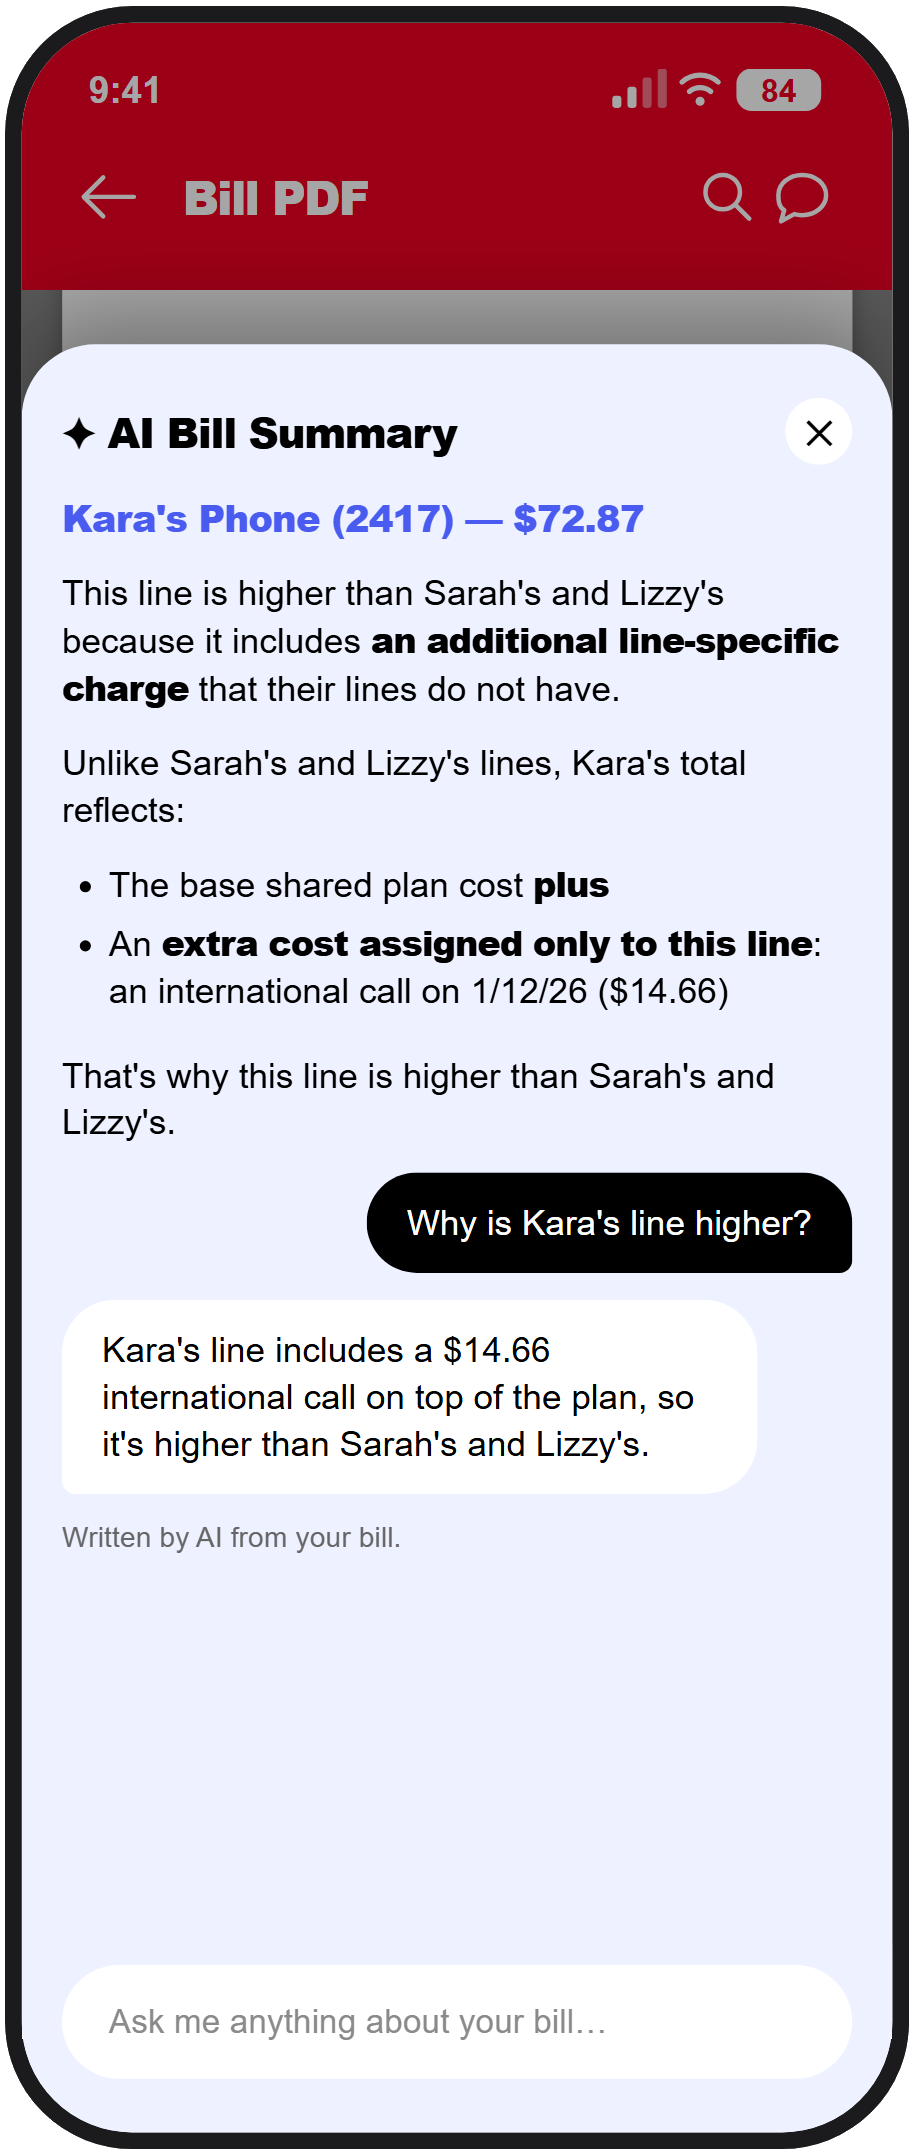
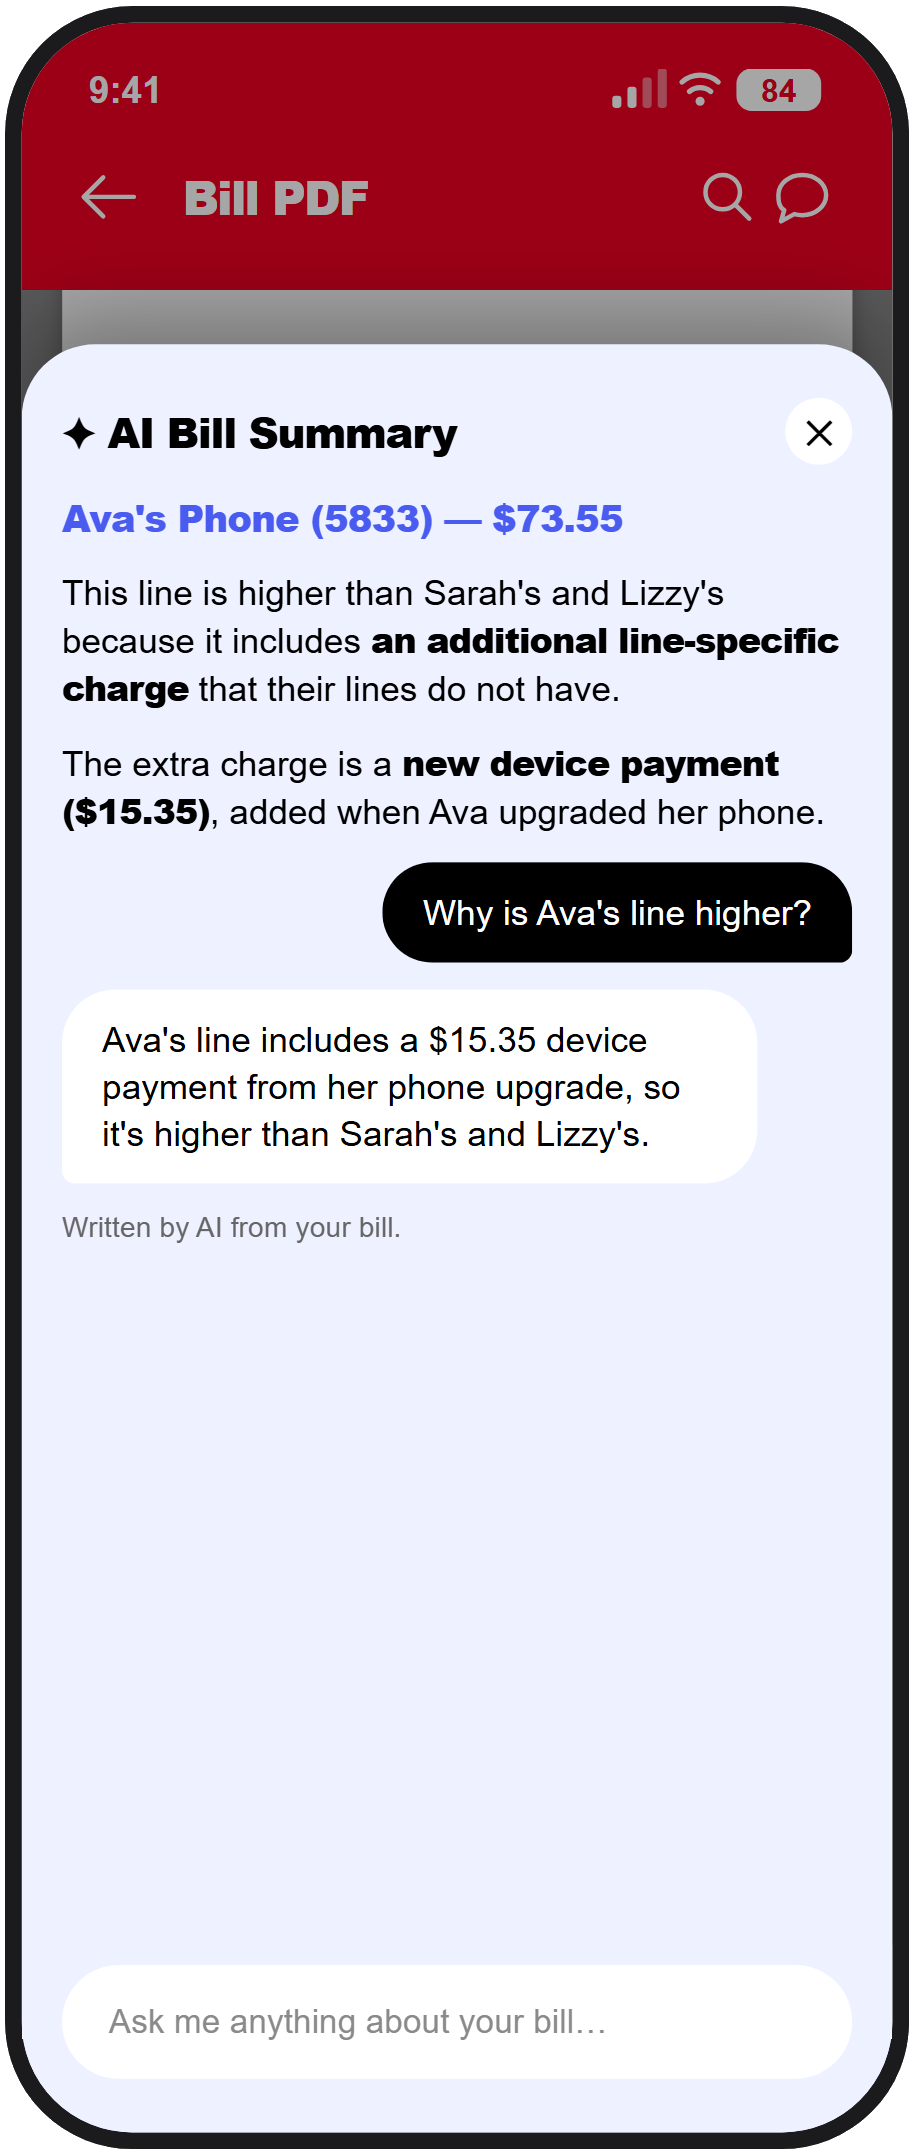
AI Bill Summary sheet now explains Ava's line (device payment); refresh thumbnail
Copilot-Session: d03eeb52-1bb5-4adc-a6b2-1b01bb792acd

diff --git a/verizon.html b/verizon.html
@@ -34,7 +34,7 @@
   <h2 class="reveal">Overview</h2>
   <div class="ov-split">
   <div><p class="reveal">Verizon customers struggle to find billing details, make sense of the numbers, and get past the jargon. A team of seven interdisciplinary designers (UX, UI and more) partnered with Verizon's Experience Design team to answer one question: <b>how can AI improve the way customers understand their bill?</b></p><p class="reveal">Over 16 weeks the team researched the problem across four carriers, designed an AI-powered bill experience, and tested it with 16 people in a Figma prototype. The work moved from open exploration to one focused bet: make the bill explain itself.</p></div>
-  <div class="ovs reveal" role="img" aria-label="Today the Verizon bill shows $262.82 with no explanation of the change. The goal is a bill that explains an increase of $30.01 in plain language."><div class="ovp"><div class="ovh"><div><small>Verizon today</small><h5>Your bill</h5></div></div><div class="ovl"><span>Total due<em>$262.82</em></span><span>Change from last month<em>Not explained</em></span><span class="no">Plain-language summary<em>Not available</em></span></div></div><div class="ovarr" aria-hidden="true"><i></i></div><div class="ovp on"><div class="ovh"><div><small>The goal</small><h5>A bill that explains itself</h5></div></div><div class="ovr"><span class="k">What changed</span><span class="v">+$30.01 from last month</span><span class="chip">Explained</span></div><div class="ovr"><span class="k">Why</span><span class="v">International call and a new device payment</span><span class="chip">Plain language</span></div><div class="ovr"><span class="k">Who</span><span class="v">Kara's line, +$14.66</span><span class="chip ok">Per member</span></div><div class="ovf">One tap from the home screen to the answer.</div></div></div>
+  <div class="ovs reveal" role="img" aria-label="Today the Verizon bill shows $262.82 with no explanation of the change. The goal is a bill that explains an increase of $30.01 in plain language."><div class="ovp"><div class="ovh"><div><small>Verizon today</small><h5>Your bill</h5></div></div><div class="ovl"><span>Total due<em>$262.82</em></span><span>Change from last month<em>Not explained</em></span><span class="no">Plain-language summary<em>Not available</em></span></div></div><div class="ovarr" aria-hidden="true"><i></i></div><div class="ovp on"><div class="ovh"><div><small>The goal</small><h5>A bill that explains itself</h5></div></div><div class="ovr"><span class="k">What changed</span><span class="v">+$30.01 from last month</span><span class="chip">Explained</span></div><div class="ovr"><span class="k">Why</span><span class="v">International call and a new device payment</span><span class="chip">Plain language</span></div><div class="ovr"><span class="k">Who</span><span class="v">Ava's line, +$15.35</span><span class="chip ok">Per member</span></div><div class="ovf">One tap from the home screen to the answer.</div></div></div>
   </div>
 
   <h2 class="reveal">The Problem</h2>
@@ -91,12 +91,12 @@
           <div class="aicard"><div class="t">&#10022; AI Bill Summary</div><p>Your bill went up because Kara made an international call and Ava upgraded her phone.</p><a>View full AI breakdown &rarr;</a></div>
           <div class="faq">How can I lower my bill?<span>&#8964;</span></div><div class="faq">Why did my bill change?<span>&#8964;</span></div><div class="faq">What are surcharges &amp; fees?<span>&#8964;</span></div>
           <div class="card pie"><b>By Member</b><div class="mem" style="margin-top:8px"><div class="donut" role="img" aria-label="Bill share: Kara 28%, Ava 28%, Sarah 22%, Lizzy 22%"></div><ul><li style="--c:#ee0022">Kara 28%</li><li style="--c:#1a1a1a">Ava 28%</li><li style="--c:#8d9094">Sarah 22%</li><li style="--c:#ffbc3d">Lizzy 22%</li></ul></div></div>
-          <div class="aicard"><div class="t">&#10022; Kara's Bill Summary</div><p>Kara's line rose $14.66. A key reason may have been:</p><ul><li>an international phone call on 1/12/26</li></ul><a>View full AI breakdown &rarr;</a></div></div><div class="tabs"><span><i></i>Me</span><span><i></i>Mobile</span><span><i></i>Home</span><span><i></i>Shop</span><span><i></i>Support</span></div></div><figcaption>The trend and the AI summary, up top</figcaption></figure><figure><div class="phone sp"><div class="hd"><div class="st"><span>9:41</span><span>&#9679;&#9679;&#9679; &#9646;</span></div><div class="nav">&larr;<span>Bill Breakdown</span><em>&#8981;</em></div></div><div class="body"><div class="scrollup"><div class="card"><b>Your Current Balance</b><div class="lg">$262.82 <span class="up">&#8599; $30.01</span></div><div class="sub">Payment will process on <b>2/6/26</b></div><div class="brow"><span>Pay Bill</span><span>Manage Auto Pay</span></div></div>
+          <div class="aicard"><div class="t">&#10022; Ava's Bill Summary</div><p>Ava's line rose $15.35. A key reason may have been:</p><ul><li>a new device payment from her phone upgrade</li></ul><a>View full AI breakdown &rarr;</a></div></div><div class="tabs"><span><i></i>Me</span><span><i></i>Mobile</span><span><i></i>Home</span><span><i></i>Shop</span><span><i></i>Support</span></div></div><figcaption>The trend and the AI summary, up top</figcaption></figure><figure><div class="phone sp"><div class="hd"><div class="st"><span>9:41</span><span>&#9679;&#9679;&#9679; &#9646;</span></div><div class="nav">&larr;<span>Bill Breakdown</span><em>&#8981;</em></div></div><div class="body"><div class="scrollup"><div class="card"><b>Your Current Balance</b><div class="lg">$262.82 <span class="up">&#8599; $30.01</span></div><div class="sub">Payment will process on <b>2/6/26</b></div><div class="brow"><span>Pay Bill</span><span>Manage Auto Pay</span></div></div>
           <div class="card"><b>Monthly Overview</b><div class="hist"><i style="height:55px"></i><i style="height:55px"></i><i style="height:55px"></i><i class="vzmax" style="height:62px"></i></div><div class="hl"><span>Oct<b>$232.81</b></span><span>Nov<b>$232.81</b></span><span>Dec<b>$232.81</b></span><span class="vzmax">Jan<b>$262.82</b></span></div></div>
           <div class="aicard"><div class="t">&#10022; AI Bill Summary</div><p>Your bill went up because Kara made an international call and Ava upgraded her phone.</p><a>View full AI breakdown &rarr;</a></div>
           <div class="faq">How can I lower my bill?<span>&#8964;</span></div><div class="faq">Why did my bill change?<span>&#8964;</span></div><div class="faq">What are surcharges &amp; fees?<span>&#8964;</span></div>
           <div class="card pie"><b>By Member</b><div class="mem" style="margin-top:8px"><div class="donut" role="img" aria-label="Bill share: Kara 28%, Ava 28%, Sarah 22%, Lizzy 22%"></div><ul><li style="--c:#ee0022">Kara 28%</li><li style="--c:#1a1a1a">Ava 28%</li><li style="--c:#8d9094">Sarah 22%</li><li style="--c:#ffbc3d">Lizzy 22%</li></ul></div></div>
-          <div class="aicard"><div class="t">&#10022; Kara's Bill Summary</div><p>Kara's line rose $14.66. A key reason may have been:</p><ul><li>an international phone call on 1/12/26</li></ul><a>View full AI breakdown &rarr;</a></div></div></div><div class="tabs"><span><i></i>Me</span><span><i></i>Mobile</span><span><i></i>Home</span><span><i></i>Shop</span><span><i></i>Support</span></div></div><figcaption>Who drove the change, further down</figcaption></figure></div></div></div><div class="wstep reveal"><div class="wtxt"><span>02</span><h4>Ask about any charge</h4><p>The familiar PDF stays. One tap on the sparkle opens the AI Bill Summary for the line you care about, and you can ask anything about your bill.</p></div><div class="wph"><div class="screens"><figure><div class="phone sp"><div class="hd"><div class="st"><span>9:41</span><span>&#9679;&#9679;&#9679; &#9646;</span></div><div class="nav">&larr;<span>Bill PDF</span><em>&#8981;</em></div></div><div class="body" style="background:#868686"><div class="paper"><div class="meta"><div><div class="v">verizon</div><div class="addr">SARAH M. LEE<br>123 MAPLE AVE<br>ANYTOWN, IN 46000</div></div><div><div class="acct"><b>Account:</b> 123456789-00001<br><b>Invoice:</b> 1234567890<br><b>Billing period:</b> Dec 29 - Jan 28</div><div class="q"><b>Questions about your bill?</b><br>verizon.com/support<br>800-922-0204</div></div></div>
+          <div class="aicard"><div class="t">&#10022; Ava's Bill Summary</div><p>Ava's line rose $15.35. A key reason may have been:</p><ul><li>a new device payment from her phone upgrade</li></ul><a>View full AI breakdown &rarr;</a></div></div></div><div class="tabs"><span><i></i>Me</span><span><i></i>Mobile</span><span><i></i>Home</span><span><i></i>Shop</span><span><i></i>Support</span></div></div><figcaption>Who drove the change, further down</figcaption></figure></div></div></div><div class="wstep reveal"><div class="wtxt"><span>02</span><h4>Ask about any charge</h4><p>The familiar PDF stays. One tap on the sparkle opens the AI Bill Summary for the line you care about, and you can ask anything about your bill.</p></div><div class="wph"><div class="screens"><figure><div class="phone sp"><div class="hd"><div class="st"><span>9:41</span><span>&#9679;&#9679;&#9679; &#9646;</span></div><div class="nav">&larr;<span>Bill PDF</span><em>&#8981;</em></div></div><div class="body" style="background:#868686"><div class="paper"><div class="meta"><div><div class="v">verizon</div><div class="addr">SARAH M. LEE<br>123 MAPLE AVE<br>ANYTOWN, IN 46000</div></div><div><div class="acct"><b>Account:</b> 123456789-00001<br><b>Invoice:</b> 1234567890<br><b>Billing period:</b> Dec 29 - Jan 28</div><div class="q"><b>Questions about your bill?</b><br>verizon.com/support<br>800-922-0204</div></div></div>
           <div class="snap"><span class="ttl">Snapshot of your bill</span><div><span>Balance from last bill</span><span>$0.00</span></div><div><span>This month's charges</span><span>$262.82</span></div><div><b>Total due on Feb 6</b><b>$262.82</b></div></div></div>
           <div class="paper"><div class="meta"><div><div class="v">verizon</div><div class="addr" style="margin:10px 0 6px">Please see back for instructions on writing to us.</div></div><div><div class="acct"><b>Bill date</b> Jan 28, 2026<br><b>Account number</b> 123456789-00001</div><div class="due">Total Amount Due<b>$262.82</b></div></div></div><div class="bars">||| ||||| || ||||| |||| ||| ||||| ||</div></div>
           <div class="paper"><div class="meta"><div><div class="v">verizon</div></div><div><div class="acct"><b>Account:</b> 123456789-00001<br><b>Billing period:</b> Dec 29 - Jan 28</div></div></div><div class="due2">Your January bill is <b>$262.82</b></div>
@@ -104,7 +104,7 @@
           <div class="snap"><span class="ttl">Snapshot of your bill</span><div><span>Balance from last bill</span><span>$0.00</span></div><div><span>This month's charges</span><span>$262.82</span></div><div><b>Total due on Feb 6</b><b>$262.82</b></div></div></div>
           <div class="paper"><div class="meta"><div><div class="v">verizon</div><div class="addr" style="margin:10px 0 6px">Please see back for instructions on writing to us.</div></div><div><div class="acct"><b>Bill date</b> Jan 28, 2026<br><b>Account number</b> 123456789-00001</div><div class="due">Total Amount Due<b>$262.82</b></div></div></div><div class="bars">||| ||||| || ||||| |||| ||| ||||| ||</div></div>
           <div class="paper"><div class="meta"><div><div class="v">verizon</div></div><div><div class="acct"><b>Account:</b> 123456789-00001<br><b>Billing period:</b> Dec 29 - Jan 28</div></div></div><div class="due2">Your January bill is <b>$262.82</b></div>
-          <div class="snap lines"><span class="ttl">Bill summary by line</span><div><span>Sarah's Phone 3390</span><span>$58.20</span></div><div><span>Kara's Phone 2417</span><span>$72.87</span></div><div><span>Ava's Phone 5833</span><span>$73.55</span></div><div><span>Lizzy's Phone 4036</span><span>$58.20</span></div></div></div></div><div class="tabs"><span><i></i>Me</span><span><i></i>Mobile</span><span><i></i>Home</span><span><i></i>Shop</span><span><i></i>Support</span></div><div class="dim" style="opacity:1"></div><div class="sheet ai chatted"><h4>&#10022; AI Bill Summary <i>&#10005;</i></h4><h5>Kara's Phone (2417) &mdash; $72.87</h5><div>This line is higher than Sarah's and Lizzy's because it includes <b>an additional line-specific charge</b> that their lines do not have.</div><div>The extra charge is an <b>international call on 1/12/26 ($14.66)</b>, billed only to Kara's line.</div><div class="bub me chatx">Why is Kara's line higher?</div><div class="bub bot chatx">Kara's line includes a $14.66 international call on top of the plan, so it's higher than Sarah's and Lizzy's.</div><div class="gen chatx">Written by AI from your bill.</div><div class="askin">Ask me anything about your bill&hellip;</div></div></div><figcaption>The AI explains the line, and you can keep asking</figcaption></figure></div></div></div></div>
+          <div class="snap lines"><span class="ttl">Bill summary by line</span><div><span>Sarah's Phone 3390</span><span>$58.20</span></div><div><span>Kara's Phone 2417</span><span>$72.87</span></div><div><span>Ava's Phone 5833</span><span>$73.55</span></div><div><span>Lizzy's Phone 4036</span><span>$58.20</span></div></div></div></div><div class="tabs"><span><i></i>Me</span><span><i></i>Mobile</span><span><i></i>Home</span><span><i></i>Shop</span><span><i></i>Support</span></div><div class="dim" style="opacity:1"></div><div class="sheet ai chatted"><h4>&#10022; AI Bill Summary <i>&#10005;</i></h4><h5>Ava's Phone (5833) &mdash; $73.55</h5><div>This line is higher than Sarah's and Lizzy's because it includes <b>an additional line-specific charge</b> that their lines do not have.</div><div>The extra charge is a <b>new device payment ($15.35)</b>, added when Ava upgraded her phone.</div><div class="bub me chatx">Why is Ava's line higher?</div><div class="bub bot chatx">Ava's line includes a $15.35 device payment from her phone upgrade, so it's higher than Sarah's and Lizzy's.</div><div class="gen chatx">Written by AI from your bill.</div><div class="askin">Ask me anything about your bill&hellip;</div></div></div><figcaption>The AI explains the line, and you can keep asking</figcaption></figure></div></div></div></div>
   <p class="reveal"><a class="figma-link" href="verizon-prototype.html" target="_blank" rel="noopener">Try the interactive prototype &nearr;</a></p>
 
   <h2 class="reveal">Impact &amp; learnings</h2>

diff --git a/verizon-prototype.html b/verizon-prototype.html
@@ -96,7 +96,7 @@ html,body{margin:0;height:100%;background:linear-gradient(135deg,#fff3e8,#ffe2cc
           <div class="aicard"><div class="t">&#10022; AI Bill Summary</div><p>Your bill went up because Kara made an international call and Ava upgraded her phone.</p><a>View full AI breakdown &rarr;</a></div>
           <div class="faq">How can I lower my bill?<span>&#8964;</span></div><div class="faq">Why did my bill change?<span>&#8964;</span></div><div class="faq">What are surcharges &amp; fees?<span>&#8964;</span></div>
           <div class="card pie"><b>By Member</b><div class="mem" style="margin-top:8px"><div class="donut" role="img" aria-label="Bill share: Kara 28%, Ava 28%, Sarah 22%, Lizzy 22%"></div><ul><li style="--c:#ee0022">Kara 28%</li><li style="--c:#1a1a1a">Ava 28%</li><li style="--c:#8d9094">Sarah 22%</li><li style="--c:#ffbc3d">Lizzy 22%</li></ul></div></div>
-          <div class="aicard"><div class="t">&#10022; Kara's Bill Summary</div><p>Kara's line rose $14.66. A key reason may have been:</p><ul><li>an international phone call on 1/12/26</li></ul><a id="g3" data-go="6">View full AI breakdown &rarr;</a></div></div>
+          <div class="aicard"><div class="t">&#10022; Ava's Bill Summary</div><p>Ava's line rose $15.35. A key reason may have been:</p><ul><li>a new device payment from her phone upgrade</li></ul><a id="g3" data-go="6">View full AI breakdown &rarr;</a></div></div>
         <div class="tabs"><span><i></i>Me</span><span><i></i>Mobile</span><span><i></i>Home</span><span><i></i>Shop</span><span><i></i>Support</span></div>
       </section>
       <!-- 6/7/8 Bill PDF + AI sheet states -->
@@ -110,7 +110,7 @@ html,body{margin:0;height:100%;background:linear-gradient(135deg,#fff3e8,#ffe2cc
         <div class="tabs"><span><i></i>Me</span><span><i></i>Mobile</span><span><i></i>Home</span><span><i></i>Shop</span><span><i></i>Support</span></div>
         <div class="pill" id="g6" data-go="7" role="button" aria-label="AI Bill Summary"><small>NEW</small><i>✦</i></div>
         <div class="dim"></div>
-        <div class="sheet ai"><h4>&#10022; AI Bill Summary <i>&#10005;</i></h4><h5>Kara's Phone (2417) &mdash; $72.87</h5><div>This line is higher than Sarah's and Lizzy's because it includes <b>an additional line-specific charge</b> that their lines do not have.</div><div>The extra charge is an <b>international call on 1/12/26 ($14.66)</b>, billed only to Kara's line.</div><div class="bub me chatx">Why is Kara's line higher?</div><div class="bub bot chatx">Kara's line includes a $14.66 international call on top of the plan, so it's higher than Sarah's and Lizzy's.</div><div class="gen chatx">Written by AI from your bill.</div><div class="askin" id="g7" data-go="8">Ask me anything about your bill&hellip;</div></div>
+        <div class="sheet ai"><h4>&#10022; AI Bill Summary <i>&#10005;</i></h4><h5>Ava's Phone (5833) &mdash; $73.55</h5><div>This line is higher than Sarah's and Lizzy's because it includes <b>an additional line-specific charge</b> that their lines do not have.</div><div>The extra charge is a <b>new device payment ($15.35)</b>, added when Ava upgraded her phone.</div><div class="bub me chatx">Why is Ava's line higher?</div><div class="bub bot chatx">Ava's line includes a $15.35 device payment from her phone upgrade, so it's higher than Sarah's and Lizzy's.</div><div class="gen chatx">Written by AI from your bill.</div><div class="askin" id="g7" data-go="8">Ask me anything about your bill&hellip;</div></div>
       </section>
 
       <div class="tap" id="tap"></div>
